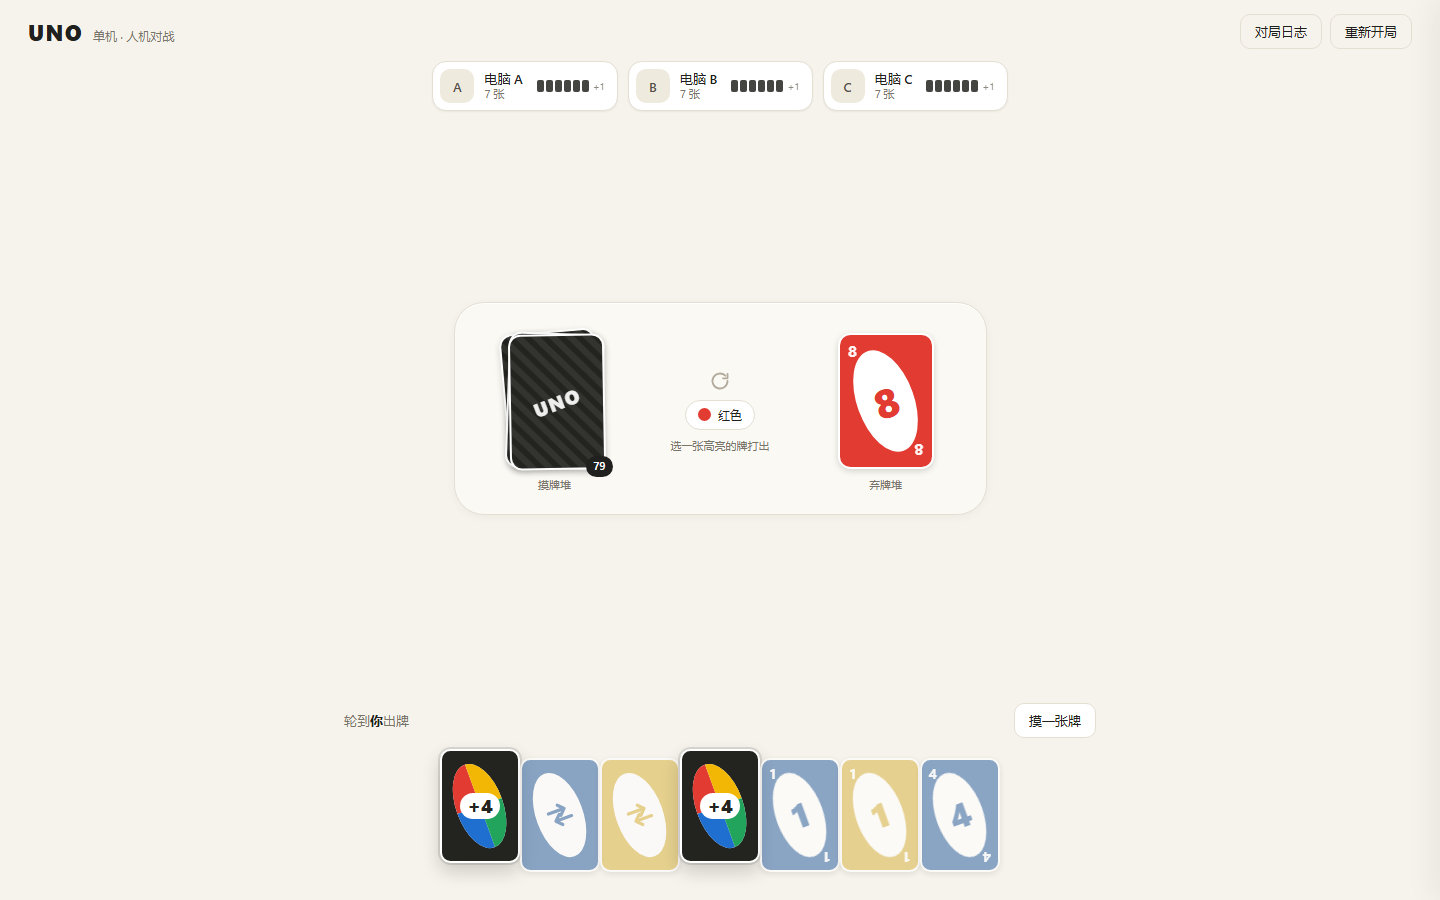
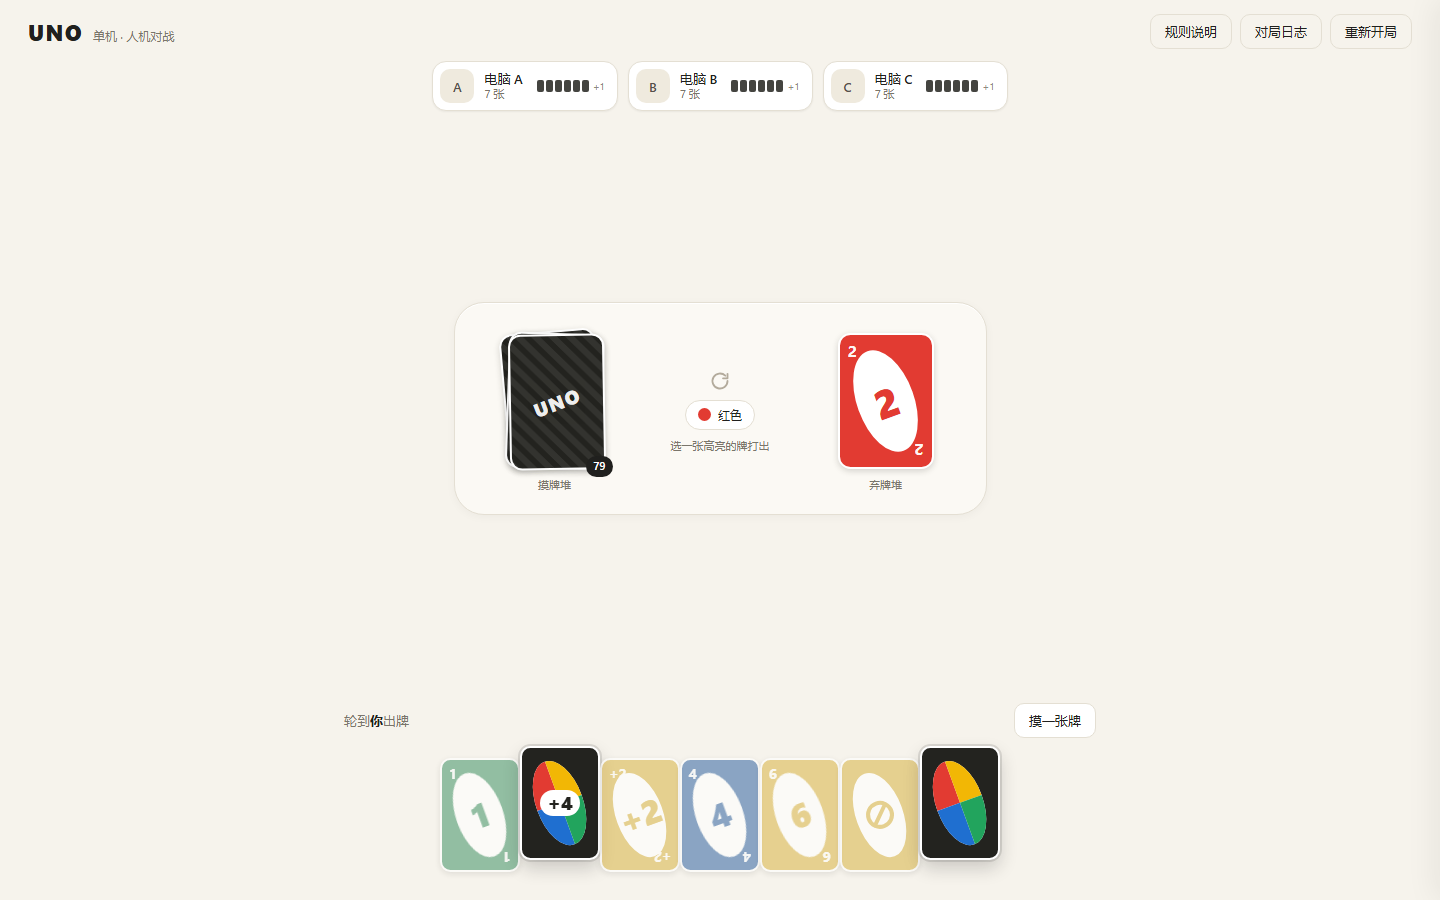
docs: 补充规则文档与界面截图

diff --git a/docs/rules.md b/docs/rules.md
@@ -1,0 +1,63 @@
+# UNO 规则说明（本项目所用版本）
+
+本项目采用**精简版 108 张牌组**，去掉了容易产生争议的变体规则，其余机制与经典 UNO 一致。
+
+## 一、目标
+
+先把自己手上的牌全部打出的人获胜。一局定胜负，不计分。
+
+## 二、开局
+
+1. 洗牌后每人发 **7 张**牌，其余牌背面朝上作为摸牌堆。
+2. 从摸牌堆翻开一张作为起始牌，放在弃牌堆。
+3. 起始牌**一定是数字牌**：如果翻到功能牌或万能牌，会把这张牌压到牌堆底部，重新翻一张。
+
+## 三、每回合怎么做
+
+1. 打出一张与弃牌堆顶牌**同色、同数字或同符号**的牌。
+2. 没有能打的牌时，从摸牌堆摸一张。摸到的牌如果刚好能打，**可以选择立刻打出，也可以留着直接结束回合**（官方原文为 *you are free to put it down*）。
+3. 打出功能牌后，效果立刻结算，然后轮到下一位玩家。
+4. 万能牌任何时候都可以打（变色 +4 有额外限制，见下）。
+
+## 四、牌型与效果
+
+| 牌型 | 数量 | 效果 |
+| --- | --- | --- |
+| 数字牌 0–9 | 每色 19 张（0 一张，1–9 各两张） | 无特殊效果，按颜色或数字接牌 |
+| 跳过 Skip | 每色 2 张 | 下一位玩家失去本回合 |
+| 反转 Reverse | 每色 2 张 | 出牌方向倒转；两人对局时等同于「跳过」 |
+| 抽两张 +2 | 每色 2 张 | 下一位玩家摸 2 张，并失去本回合 |
+| 变色 Wild | 共 4 张 | 指定接下来的颜色，下一位玩家照常出牌 |
+| 变色 +4 | 共 4 张 | 指定颜色，下一位玩家摸 4 张并失去回合；手上还有当前颜色的牌时**不能出** |
+
+四色各 25 张（19 张数字 + 3 种功能牌各 2 张）共 100 张，加 8 张万能牌，总计 **108 张**。
+
+## 五、本版本的特别约定
+
+| 规则 | 处理方式 |
+| --- | --- |
+| 起始牌 | 强制为数字牌，翻到功能牌或万能牌则压回牌堆重翻 |
+| 两人局反转 | 等同于「跳过」，不翻转方向，避免方向反复横跳 |
+| 摸牌后可出可过 | 摸到的牌能打时，由玩家自行决定是否打出 |
+| 叠牌（+2 叠 +2、+4 接力） | **不采用**。+2 就是摸 2 张，不能用功能牌顶回去 |
+| 质疑 +4 | **不采用**。改为界面直接禁止不合规打出：手上有当前颜色时该牌置灰、点不动 |
+| 换手牌 / 洗牌重发 / 自定规则牌 | **不采用**，交互链路过长且难以判定 |
+| 7-0 规则 | **不采用** |
+| UNO 喊话 | **不采用**。剩最后一张不必宣告，也不会被罚牌 |
+| 500 分多轮计分 | **不采用**。一局定胜负 |
+| 出牌倒计时 | **不采用** |
+
+## 六、操作提示
+
+- 能打的牌会向上浮起并加深阴影，不能打的牌变灰且点不动。
+- 点击浮起的牌即出牌；打出万能牌会弹出四色面板，选完颜色才真正生效。
+- 轮到你却无牌可出时，点左侧的摸牌堆摸牌。
+- 右上角「对局日志」记录每一步谁打了什么牌。
+- 顶栏「规则说明」随时可以调出本页内容的界面版本。
+
+## 七、实现约定（开发者参考）
+
+- 所有判定逻辑集中在 `shared/rules.js`，为纯函数，前后端共用同一份，服务端是唯一权威状态源。
+- 牌组生成在 `shared/deck.js`，随机源可注入，同一随机种子可完整复现同一局牌序。
+- 弃牌堆回收时保留最上一张，用 `seed + reshuffleCount` 生成确定性随机源，保证对局可重放。
+- 更细节的边界情况（如摸牌堆耗尽、最后一张为功能牌）由 `tests/` 下的单元测试与自对弈压力测试覆盖。

diff --git a/README.md b/README.md
@@ -5,6 +5,7 @@
 ## 功能
 
 - **单机人机对战**：2–4 人牌桌，AI 分简单 / 普通 / 困难三档
+- **规则说明面板**：内置规则与牌型图解，卡面直接复用游戏渲染器，新手不用先看文档
 - **在线联机**：4 位房间码创建与加入，房主可踢人、再来一局
 - **断线重连**：掉线后座位保留 30 秒，可回到原局继续
 - **快捷短语**：内置常用短语与表情，一键发送
@@ -13,6 +14,10 @@
 ## 界面预览
 
 ![桌面端界面](docs/screenshot-desktop.png)
+
+游戏内随时可调出规则与牌型说明，卡面图解直接复用游戏渲染器：
+
+![规则说明面板](docs/screenshot-rules.png)
 
 手机端：
 
